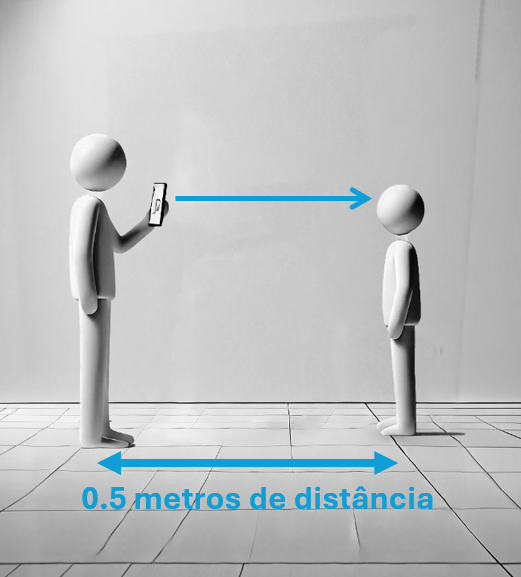
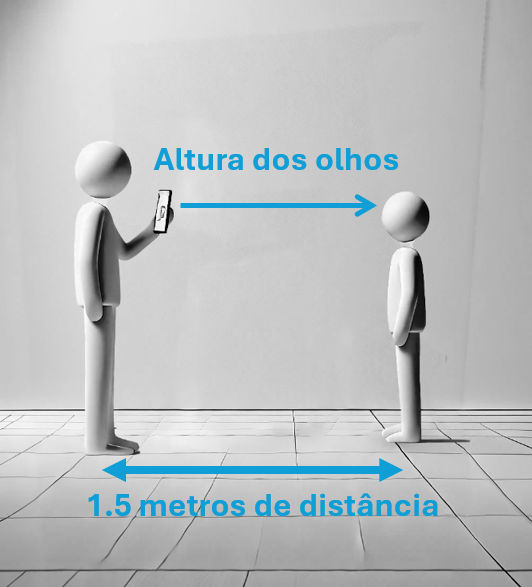
Corrigido instruções de uso

diff --git a/src/frontend/components/InstructionsScreen.tsx b/src/frontend/components/InstructionsScreen.tsx
@@ -38,7 +38,7 @@ const InstructionsScreen: React.FC = () => {
       <Slider ref={sliderRef} {...settings}>
         <div className="carousel-slide">
           <p className="instruction-text">
-            Tire a foto <b>a aproximadamente 0.5 metros</b> de distância e 
+            Tire a foto <b>a aproximadamente 1.5 metros</b> de distância e 
             posicione a <b>câmera na altura do rosto</b>.
           </p>
           <img src={distanceImage} alt="Exemplo de foto" className="instruction-image" />
